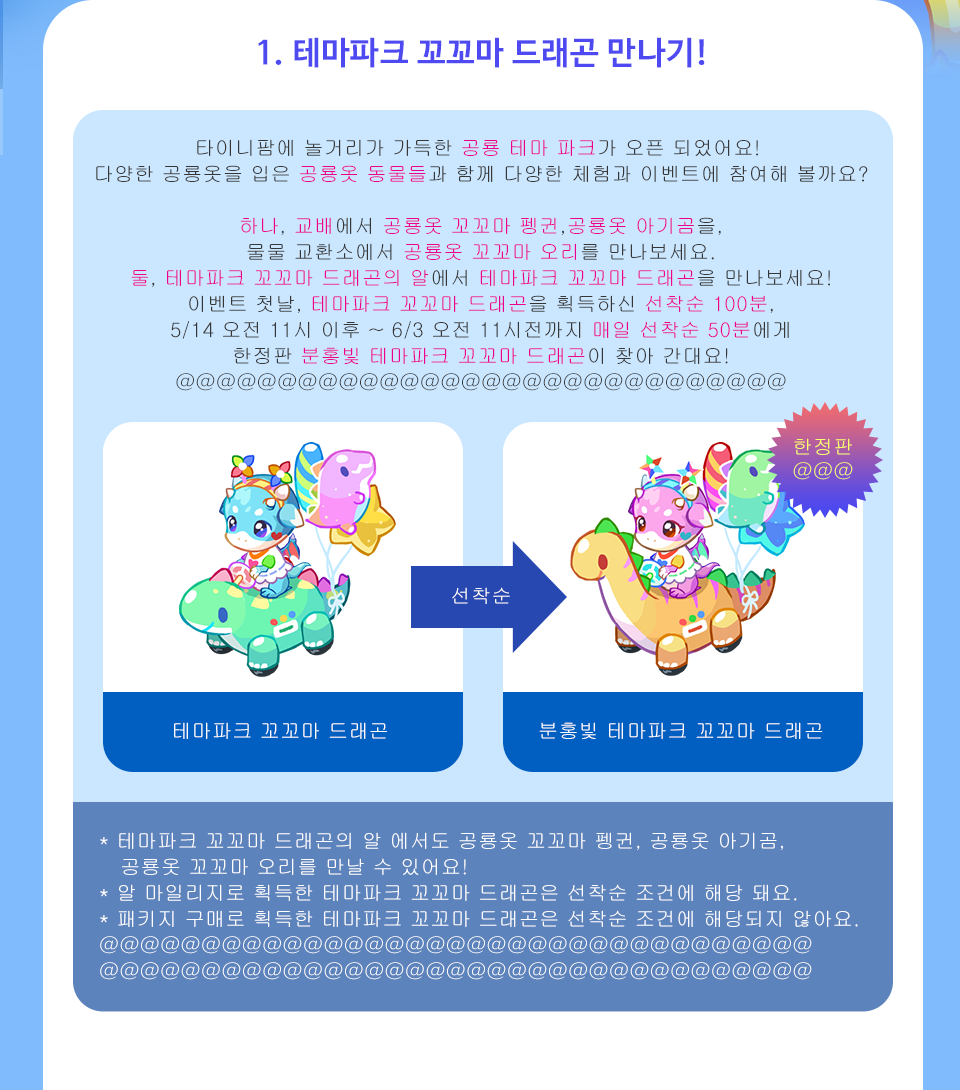
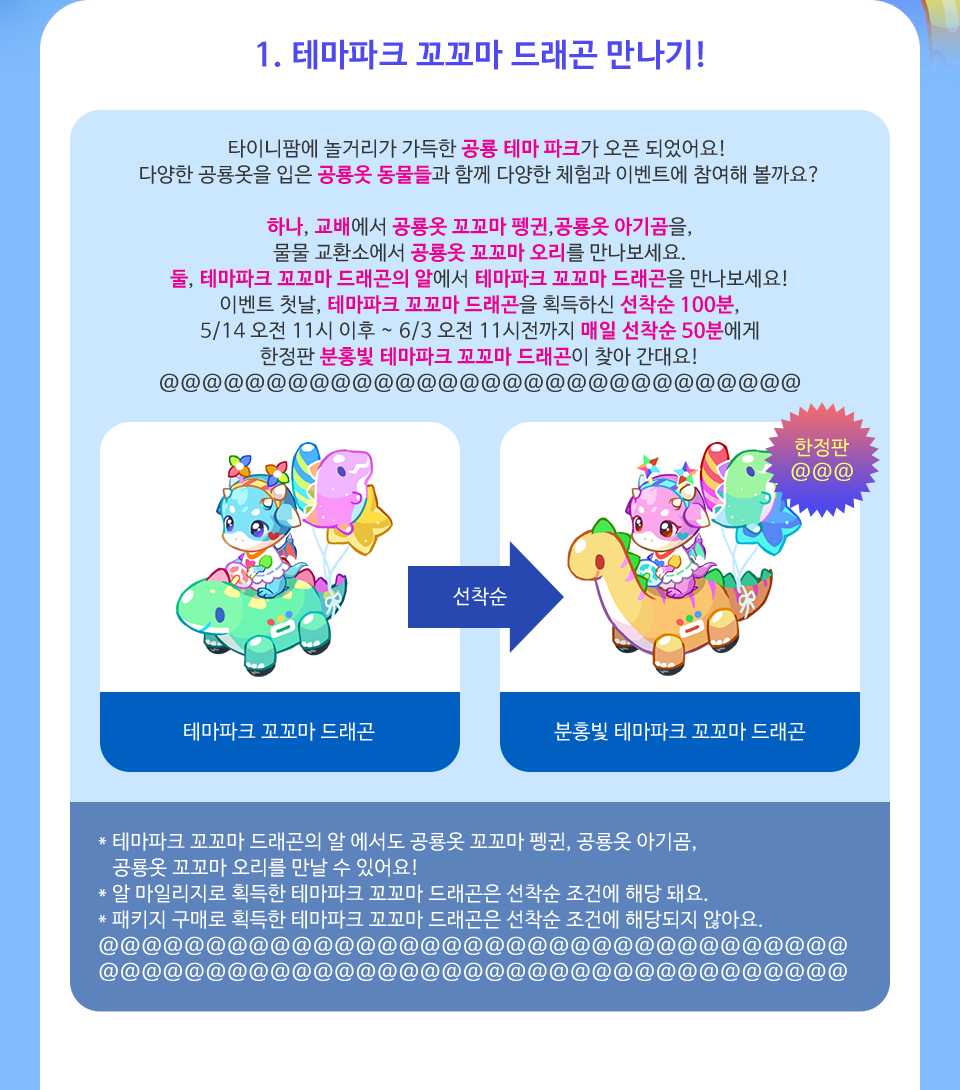
컴투스 이벤트 중간저장

diff --git a/css/event.css b/css/event.css
@@ -17,10 +17,10 @@
 
 .event-title {    
     position: absolute;
-    top: 3.2%;
+    top: 3.3%;
     left: 50%;
     font-size: 3.5vw;
-    letter-spacing: -0.5px;
+    letter-spacing: -0.2px;
     color: #4e49f1;
     font-family: 'NanumBarunGothicBold';
     transform: translateX(-50%);
@@ -32,7 +32,7 @@ position: absolute;
     left: 50%;
     width: 100%;
     font-size: 2.3vw;
-    letter-spacing: 0.4px;
+    letter-spacing: -0.4px;
     color: #363636;
     font-family: 'NanumBarunGothic';
     transform: translateX(-50%);
@@ -41,17 +41,21 @@ position: absolute;
 
 .event-text span {    display: block;
     margin-top: 2.7%;
-    letter-spacing: 0.3px;
     line-height: 1.16;}
 
     .event-text strong {color:#ec008c;font-family: 'NanumBarunGothicBold';}
 .event-notice {   
     position: absolute;
-    bottom: 10%;
-    left: 10.3%;
+    bottom: 9.1%;
+    left: 10.2%;
     width: 100%;
 }
-.event-notice li {position:relative;margin-top:0.4%;padding-left:2.1%;line-height:1.2;font-size:2vw;letter-spacing:1.18px; color: #fff;
+.event-notice li {position: relative;
+    padding-left: 1.4%;
+    line-height: 1.4;
+    font-size: 2vw;
+    letter-spacing: 0.4px;
+    color: #fff;
     font-family: 'NanumBarunGothic';}
     .event-notice li:first-child {margin-top:0}
     .event-notice li:last-child {padding-left:0;}
@@ -62,8 +66,7 @@ position: absolute;
     color: #fff;}
 
 .event-section__inner--3 .event-title {top:0}
-.event-section__inner--3 .event-text {top: 8.9%;
-    letter-spacing: -0.2px}
+.event-section__inner--3 .event-text {top: 8.9%;}
 .event-ticket  {    position: absolute;
     top: 38.8%;
     left: 29%;
@@ -98,18 +101,18 @@ color:#fff;}
 color:#ffff6b;font-weight:normal;}
 
 
-.event-section__inner--4 .event-title { top: 1.7%;
+.event-section__inner--4 .event-title { top: 2.3%;
     text-align: center;
     width: 100%;
     letter-spacing: -1.2px;
     color: #ffff6b;
     font-size: 3.4vw;}
 
-.event-section__inner--4 .event-text {top: 16.6%;    letter-spacing: -0.4px;}
+.event-section__inner--4 .event-text {top: 17.4%;    letter-spacing: -0.4px;}
 
 .event-graph {    position: absolute;
     position: absolute;
-    top: 26%;
+    top: 27%;
     width: 79.3%;
     left: 10.3%;
     height: 8.2%;
@@ -123,12 +126,10 @@ color:#ffff6b;font-weight:normal;}
 .event-section__inner--4 .event-stamp__list{    width: 14%;
     margin-top: 0%;}
     .event-section__inner--4  .event-notice{
-            bottom: 10.5%;
-    left: 10.2%;
+       bottom: 12.3%;
+    left: 10.5%;
     }
- .event-section__inner--4  .event-notice li {
-    letter-spacing:0.38px;
- }
+
 /* 유의사항 */
 .event-section__inner--caution {padding:30px 20px;box-sizing:border-box;background-color:#333}
 .event-section__caution-title {font-size:4.4vw;font-weight:bold;color:#ddd}

diff --git a/test_page01.html b/test_page01.html
@@ -145,8 +145,7 @@
   (단, 마을 출석하기, 벨 tv 광고 보고 보상 받기 미션의 경우 점검 이전에 이미 모두 달성 시 <br/>
    점검 후 입장권이 자동 지급 돼요.) </li>
                 <li><span>*</span> 입장권 획득 개수에 따른 선물은 달성 즉시 선물함으로 지급돼요. </li>
-                <li><span>*</span> 패키지 구매로 획득한 테마파크 꼬꼬마 드래곤은 선착순 조건에 해당되지 않아요.</li>
-                <li>@@@@@@@@@@@@@@@@@@@@@@@@@@@@@@@<br/>@@@@@@@@@@@@@@@@@@@@@@@@@@@@@@@</li>
+                <li>@@@@@@@@@@@@@@@@@@@@@@@@@@@@@@@@@@@<br/>@@@@@@@@@@@@@@@@@@@@@@@@@@@@@@@@@@@</li>
             </ul>
 		</div>
 	</div>
